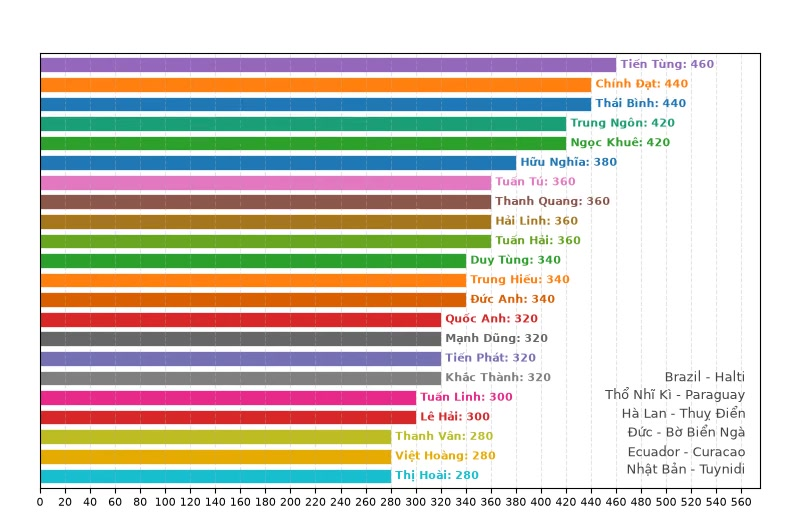
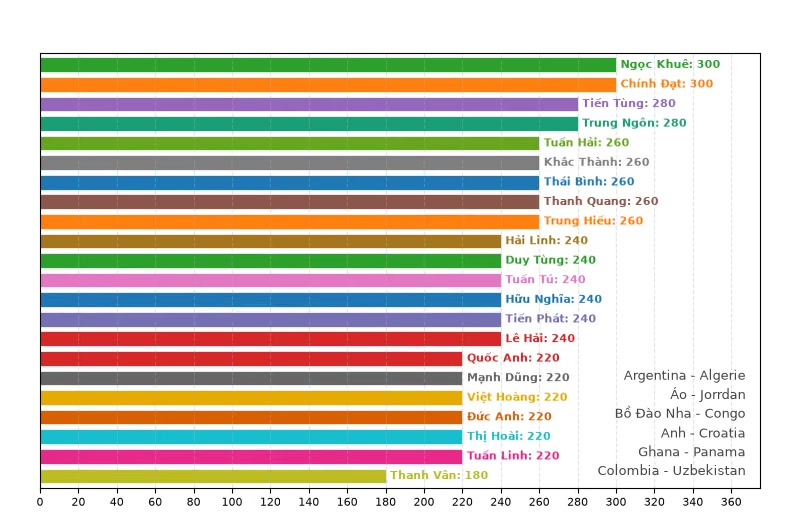
update data

diff --git a/index.html b/index.html
@@ -3,10 +3,10 @@
   <head>
     <meta charset="UTF-8" />
     <meta name="viewport" content="width=device-width, initial-scale=1.0" />
-    <title>Bảng Xếp Hạng Giải Đấu</title>
+    <title>ĐUA TOP BÚNG TAI WC 2026</title>
     <meta
       name="description"
-      content="Thống kê và trực quan hóa thứ hạng người chơi qua các trận đấu."
+      content=""
     />
     <link rel="stylesheet" href="style.css" />
     <link

diff --git a/gen_race.py b/gen_race.py
@@ -228,6 +228,7 @@ def main():
     HOLD_S = 1.5
     EXCEL_FILE = "wc.xlsx"
     OUT_VIDEO = "race.webm"
+    AUDIO_FILE = "Welcome to Planet Urf ｜ Login Screen - League of Legends [qYIiy03eGE0].opus"
     TEMP_DIR = "temp_frames"
 
     # --- Data Preparation ---
@@ -289,6 +290,13 @@ def main():
         str(FPS),
         "-i",
         os.path.join(TEMP_DIR, "frame_%05d.png"),
+    ]
+
+    has_audio = os.path.exists(AUDIO_FILE)
+    if has_audio:
+        ffmpeg_cmd.extend(["-i", AUDIO_FILE])
+
+    ffmpeg_cmd.extend([
         "-vf",
         "pad=ceil(iw/2)*2:ceil(ih/2)*2",
         "-c:v",
@@ -299,8 +307,13 @@ def main():
         "0",
         "-pix_fmt",
         "yuv420p",
-        OUT_VIDEO,
-    ]
+    ])
+
+    if has_audio:
+        ffmpeg_cmd.extend(["-c:a", "copy", "-shortest"])
+
+    ffmpeg_cmd.append(OUT_VIDEO)
+
     subprocess.run(ffmpeg_cmd, check=True, stdout=subprocess.DEVNULL)
 
     shutil.rmtree(TEMP_DIR)